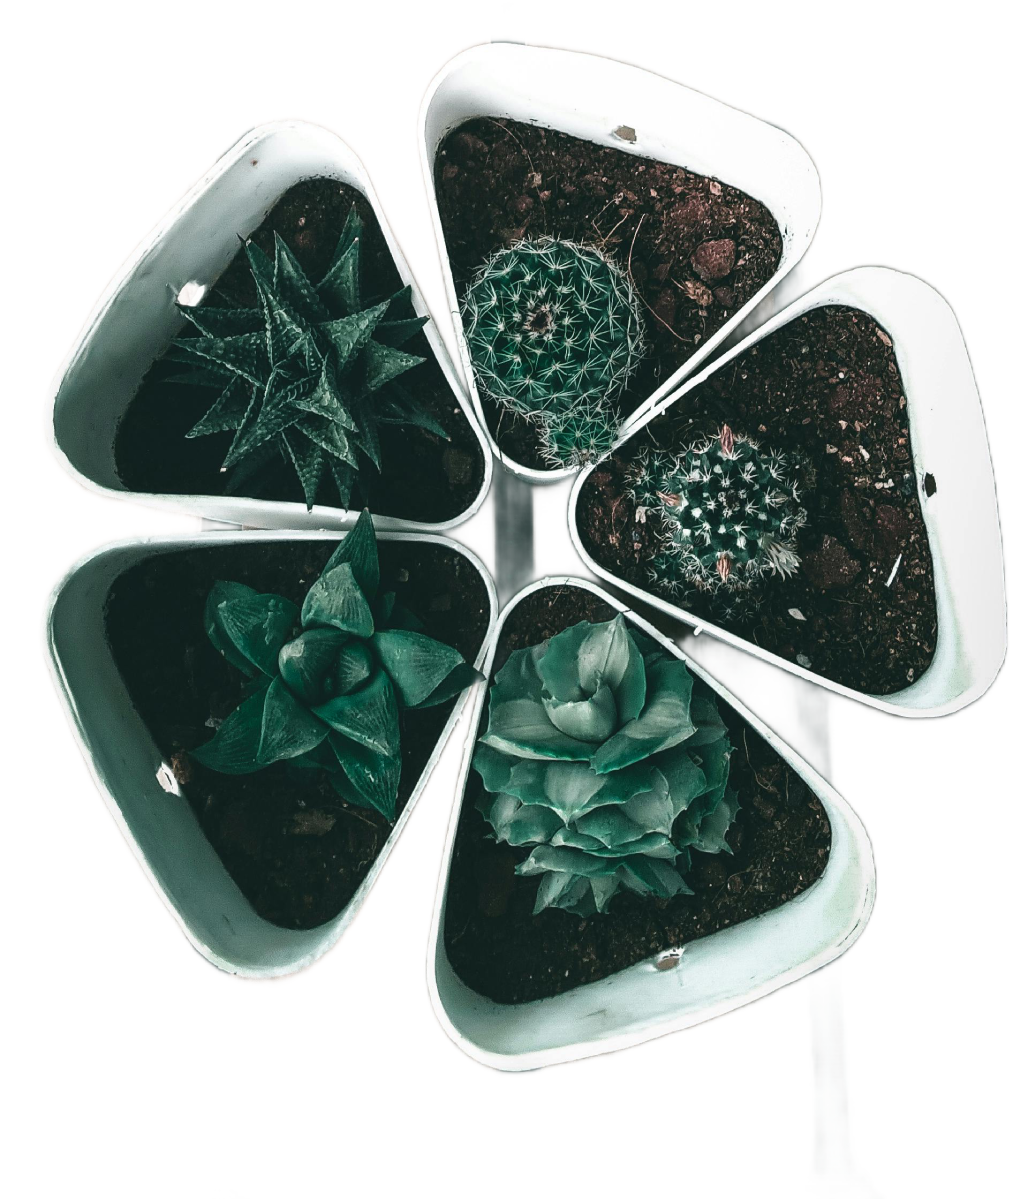
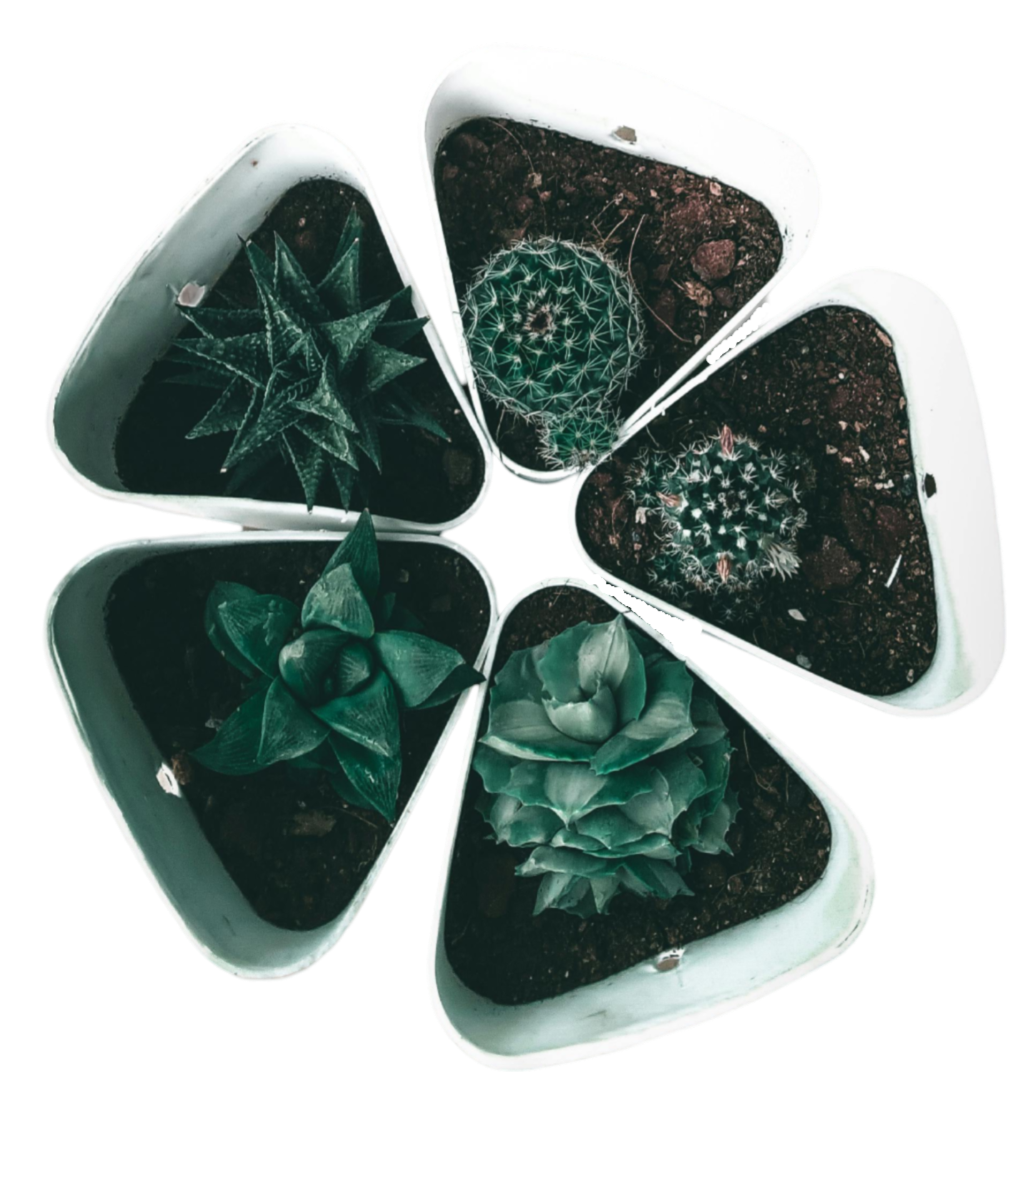
website v1.2

diff --git a/index.html b/index.html
@@ -338,7 +338,7 @@
 
             <img src="img/selling-2.png" alt="" class="product__img" />
 
-            <h3 class="product__title">Strings of Pearl</h3>
+            <h3 class="product__title">Pearl Plant</h3>
             <span class="product__price">$11.99</span>
 
             <button class="button--flex product__button">
@@ -351,7 +351,7 @@
 
             <img src="img/selling-3.png" alt="" class="product__img" />
 
-            <h3 class="product__title">Old Lady Cactus</h3>
+            <h3 class="product__title">Old Cactus</h3>
             <span class="product__price">$7.99</span>
 
             <button class="button--flex product__button">
@@ -555,7 +555,7 @@
               class="product__img product-new"
             />
 
-            <h3 class="product__title">Philodendron Plant</h3>
+            <h3 class="product__title">Hastatum Plant</h3>
             <span class="product__price">$8.99</span>
 
             <button class="button--flex product__button">

diff --git a/style.css b/style.css
@@ -514,7 +514,7 @@ the website, in dark theme
 
 .product__img {
   position: relative;
-  width: 120px;
+  width: 155px;
   justify-self: center;
   margin-bottom: var(--mb-0-75);
   transition: .3s;
@@ -526,9 +526,12 @@ the website, in dark theme
   font-weight: var(--font-semi-bold);
   color: var(--title-color);
 }
-
+.product__price{
+  padding-left:14px
+}
 .product__title {
   margin-bottom: .25rem;
+  padding-left: 14px;
 }
 
 .product__button {
@@ -1139,9 +1142,14 @@ body {
   width: 100%;
   overflow: hidden;
   color: #fff;
+}
+.swiper-container img {
   border-radius: 10px;
 }
 
+.colored-container{
+  margin-top: 80px;
+}
 .content-box {
   position: absolute;
   left: 50%;
@@ -1282,6 +1290,10 @@ body {
     width: 90%;
     border-radius: 6px;
   }
+
+    .swiper-slide .title {
+      font-size:24px;
+    }
 
   .subtitle {
     margin-top: 5px !important;
